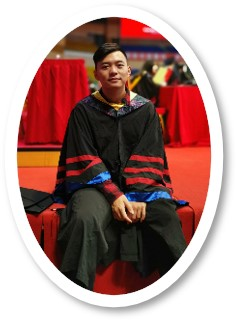
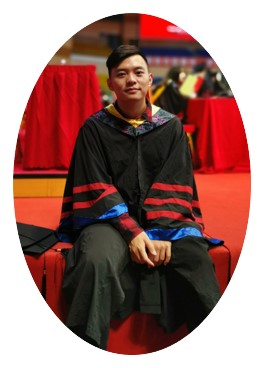
update

diff --git a/css/templatemo-style.css b/css/templatemo-style.css
@@ -21,6 +21,25 @@ p {
   float: right;
 }
 
+/*------------------------------------------*/
+
+.round_icon{
+  width: 60%;
+  height: 60%;
+  display: flex;
+  border-radius: 70%;
+  align-items: center;
+  justify-content: center;
+  overflow: hidden;
+
+
+}
+/*------------------------------------------*/
+
+
+
+
+
 .content-section {
   padding-top: 80px;
   position: relative;

diff --git a/index.html b/index.html
@@ -57,7 +57,7 @@ https://templatemo.com/tm-518-sentra
 
         <div class="sidebar-navigation hidde-sm hidden-xs">
             <div class="image">
-                <img src="img/xmc2.jpg" class="img-rounded" alt="">
+                <img src="img/xmc.jpg" class="round_icon" alt="">
 <!--                <a href="#">Mingcan Xiang</a>-->
             </div>
             <nav>
